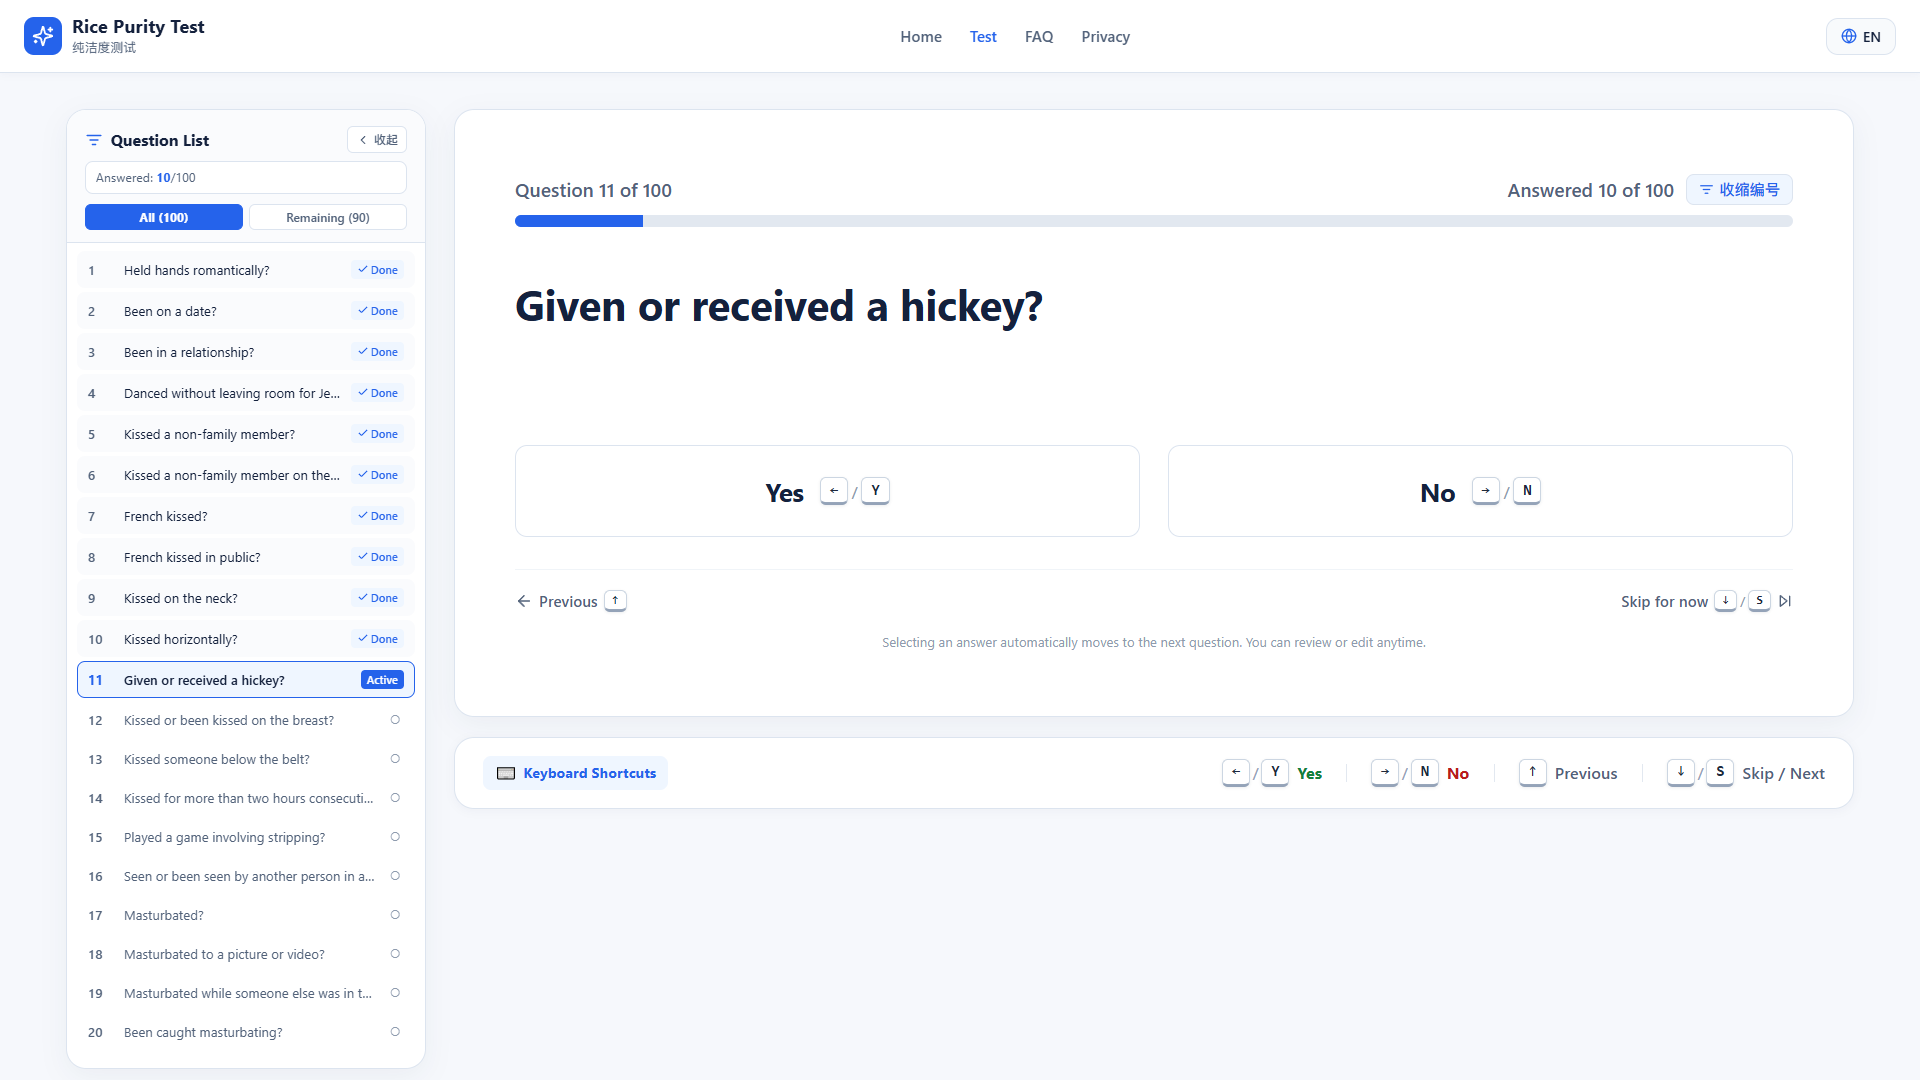
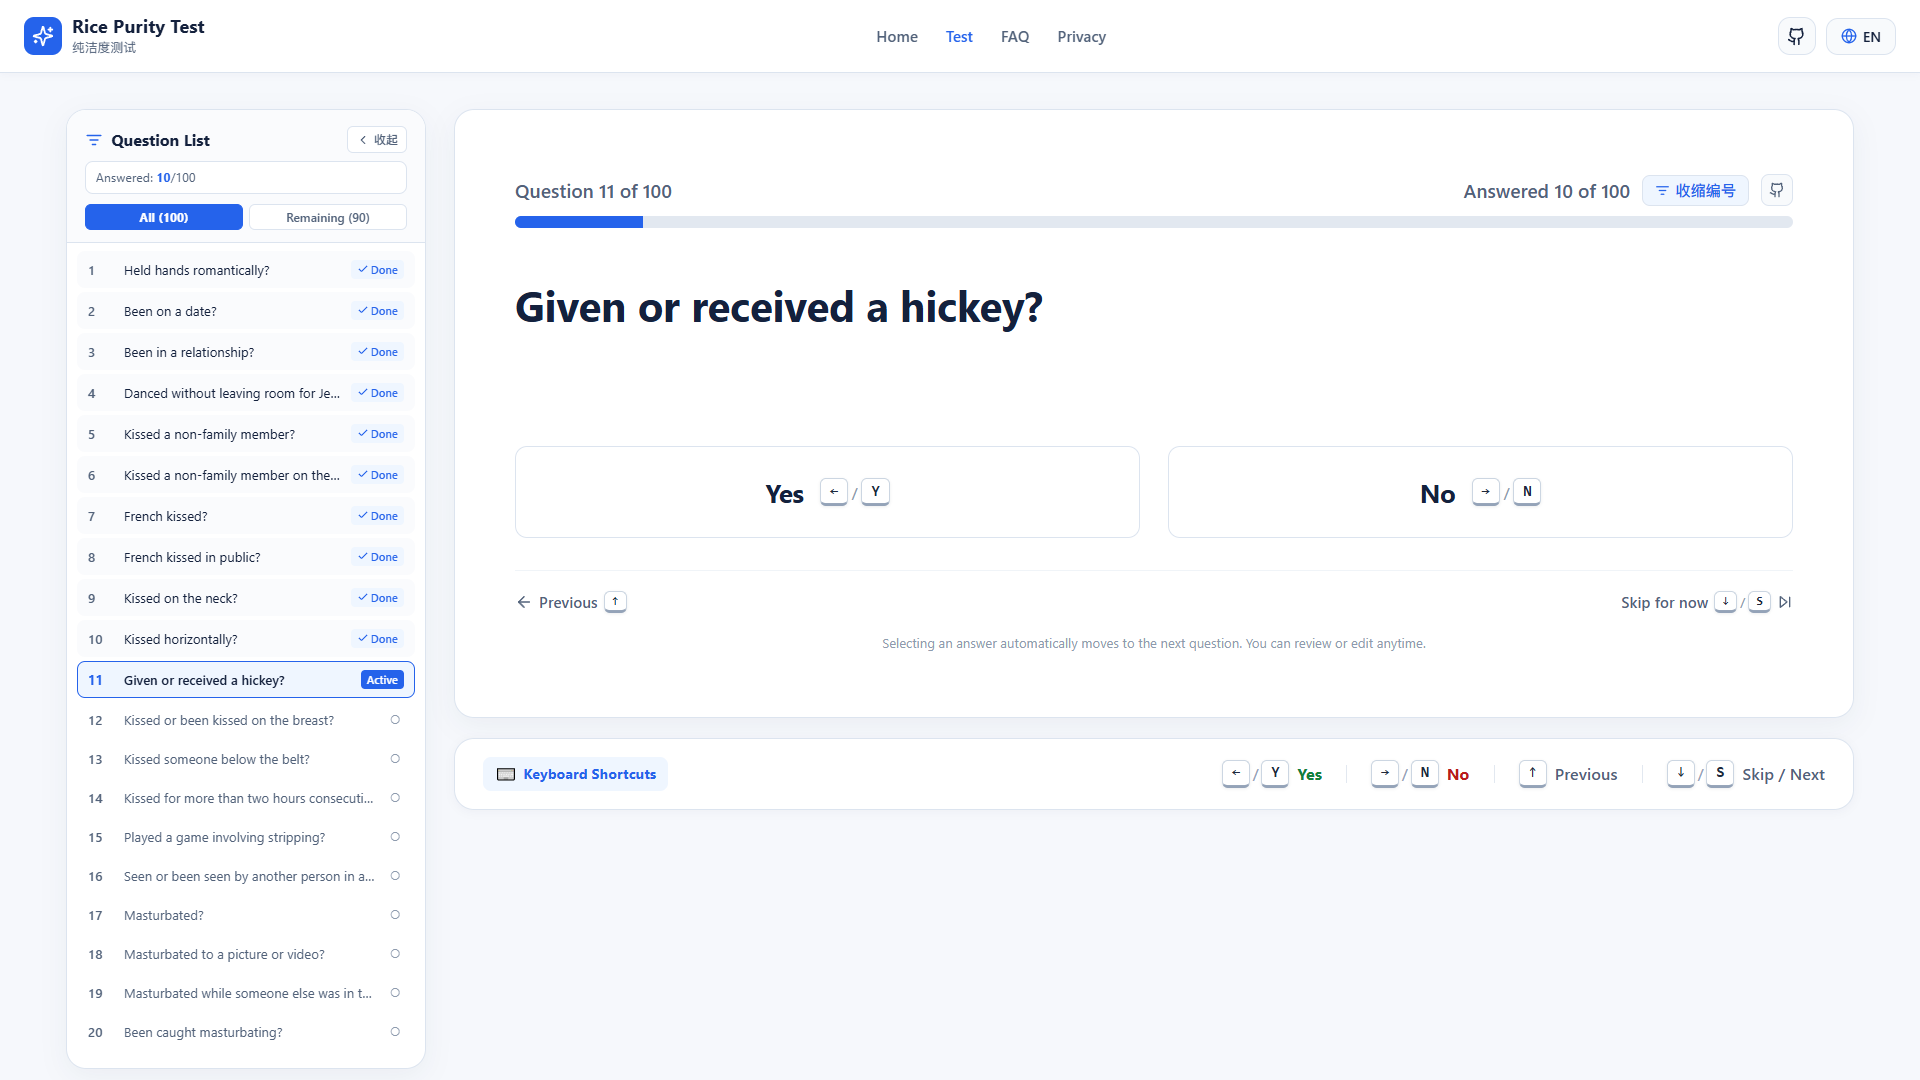
feat: add GitHub open source repository links to navigation header and test card

diff --git a/src/components/Navbar.tsx b/src/components/Navbar.tsx
@@ -1,6 +1,6 @@
 import React, { useState } from "react";
 import { Link, useLocation, useNavigate } from "react-router-dom";
-import { Sparkles, Globe, Menu, X } from "lucide-react";
+import { Sparkles, Globe, Menu, X, Github } from "lucide-react";
 import { useLanguage } from "../i18n/LanguageContext";
 import { DisplayLanguage } from "../features/quiz/types";
 
@@ -115,8 +115,39 @@ export const Navbar: React.FC = () => {
           </Link>
         </nav>
 
-        {/* Right Action: Language Selector */}
-        <div style={{ display: "flex", alignItems: "center", gap: "12px" }}>
+        {/* Right Action: GitHub Repository & Language Selector */}
+        <div style={{ display: "flex", alignItems: "center", gap: "10px" }}>
+          <a
+            href="https://github.com/JackieSung4ev/rice-purity"
+            target="_blank"
+            rel="noopener noreferrer"
+            title="GitHub Repository (Open Source) / 开源仓库"
+            aria-label="GitHub Repository"
+            style={{
+              display: "flex",
+              alignItems: "center",
+              justifyContent: "center",
+              width: "38px",
+              height: "38px",
+              borderRadius: "var(--radius-control)",
+              backgroundColor: "var(--color-surface-hover)",
+              border: "1px solid var(--color-border)",
+              color: "var(--color-text)",
+              transition: "all 0.15s ease",
+              textDecoration: "none",
+            }}
+            onMouseEnter={(e) => {
+              e.currentTarget.style.backgroundColor = "var(--color-primary-soft)";
+              e.currentTarget.style.color = "var(--color-primary)";
+            }}
+            onMouseLeave={(e) => {
+              e.currentTarget.style.backgroundColor = "var(--color-surface-hover)";
+              e.currentTarget.style.color = "var(--color-text)";
+            }}
+          >
+            <Github size={19} />
+          </a>
+
           <div style={{ position: "relative" }}>
             <button
               onClick={() => setLangDropdownOpen(!langDropdownOpen)}
@@ -222,6 +253,25 @@ export const Navbar: React.FC = () => {
           <Link to="/privacy" onClick={() => setMobileMenuOpen(false)} style={{ padding: "8px 0", fontSize: "1rem", fontWeight: 500, color: "var(--color-text)" }}>
             {language === "bilingual" ? "Privacy 隐私说明" : t.navPrivacy}
           </Link>
+          <a
+            href="https://github.com/JackieSung4ev/rice-purity"
+            target="_blank"
+            rel="noopener noreferrer"
+            onClick={() => setMobileMenuOpen(false)}
+            style={{
+              display: "flex",
+              alignItems: "center",
+              gap: "8px",
+              padding: "8px 0",
+              fontSize: "1rem",
+              fontWeight: 500,
+              color: "var(--color-primary)",
+              textDecoration: "none",
+            }}
+          >
+            <Github size={18} />
+            <span>GitHub (Open Source)</span>
+          </a>
         </div>
       )}
 

diff --git a/src/pages/TestPage.tsx b/src/pages/TestPage.tsx
@@ -1,6 +1,6 @@
 import React, { useState, useEffect } from "react";
 import { useNavigate } from "react-router-dom";
-import { ArrowLeft, ArrowRight, SkipForward, Check, AlertTriangle, ListFilter } from "lucide-react";
+import { ArrowLeft, ArrowRight, SkipForward, Check, AlertTriangle, ListFilter, Github } from "lucide-react";
 import { useQuiz } from "../features/quiz/quizContext";
 import { useLanguage } from "../i18n/LanguageContext";
 import { AnswerValue } from "../features/quiz/types";
@@ -536,6 +536,38 @@ export const TestPage: React.FC = () => {
                       </span>
                     </button>
                   )}
+
+                  {/* GitHub Repository Link */}
+                  <a
+                    href="https://github.com/JackieSung4ev/rice-purity"
+                    target="_blank"
+                    rel="noopener noreferrer"
+                    title="GitHub Repository (Open Source) / 开源仓库"
+                    aria-label="GitHub Repository"
+                    style={{
+                      display: "inline-flex",
+                      alignItems: "center",
+                      justifyContent: "center",
+                      width: "32px",
+                      height: "32px",
+                      borderRadius: "8px",
+                      backgroundColor: "var(--color-surface-hover)",
+                      color: "var(--color-text-secondary)",
+                      border: "1px solid var(--color-border)",
+                      transition: "all 0.15s ease",
+                      textDecoration: "none",
+                    }}
+                    onMouseEnter={(e) => {
+                      e.currentTarget.style.backgroundColor = "var(--color-primary-soft)";
+                      e.currentTarget.style.color = "var(--color-primary)";
+                    }}
+                    onMouseLeave={(e) => {
+                      e.currentTarget.style.backgroundColor = "var(--color-surface-hover)";
+                      e.currentTarget.style.color = "var(--color-text-secondary)";
+                    }}
+                  >
+                    <Github size={16} />
+                  </a>
                 </div>
               </div>
 

diff --git a/README.zh-CN.md b/README.zh-CN.md
@@ -87,25 +87,25 @@ npm run preview
 
 ## 验收清单验证结果
 
-| 类别     | 编号 | 检查项                          | 实际验证结果                          |
-| -------- | ---- | ------------------------------- | ------------------------------------- |
-| **计分** | D01  | 正式 100 题全部 No 得 100 分    | 通过（Vitest 单测）                   |
-| **计分** | D02  | 正式 100 题全部 Yes 得 0 分     | 通过（Vitest 单测，0分有效）          |
-| **计分** | D03  | 28 Yes + 72 No 得 72 分         | 通过（Vitest 单测）                   |
-| **计分** | D04  | Yes 改为 No 分数变动            | 通过（Vitest 单测，分数+1）           |
-| **计分** | D05  | 28 Yes + 71 No + 1 跳过         | 通过（score 为 null，未完成）         |
-| **计分** | D07  | 未访问项与跳过区分              | 通过（unvisited 与 skipped 独立统计） |
-| **计分** | D08  | 非法或损坏会话校验拦截          | 通过（validateSession 拦截）          |
-| **计分** | D10  | 演示题库不冒充正式分数          | 通过（status 为 demo，score 为 null） |
-| **交互** | I01  | 每次只显示一道题                | 通过（Puppeteer 桌面与手机验证）      |
-| **交互** | I02  | 连击与双击防误触                | 通过（200ms 同步题目 ID 切换保护锁）  |
-| **交互** | I07  | 回答明细默认折叠                | 通过（默认隐藏敏感答案，点击展开）    |
-| **交互** | I08  | 从结果页单题编辑修改            | 通过（支持修改、取消与保存返回）      |
-| **PDF**  | P01  | 中文、英文、双语 PDF 导出       | 通过（本地编译，A4 1 页摘要）         |
-| **PDF**  | P02  | PDF 中文及标点渲染              | 通过（实际加载 Noto Sans SC，无乱码） |
-| **PDF**  | P03  | 展开明细后仍不泄露答案          | 通过（PDF 结构完全排除逐题回答）      |
-| **隐私** | S01  | 无答案外传，无长期存储          | 通过（纯前端，无后端及第三方脚本）    |
-| **视觉** | V01  | 桌面 1920px / 手机 390px 自适应 | 通过（流体排版，无横向溢出，清晰醒目）|
+| 类别     | 编号 | 检查项                          | 实际验证结果                           |
+| -------- | ---- | ------------------------------- | -------------------------------------- |
+| **计分** | D01  | 正式 100 题全部 No 得 100 分    | 通过（Vitest 单测）                    |
+| **计分** | D02  | 正式 100 题全部 Yes 得 0 分     | 通过（Vitest 单测，0分有效）           |
+| **计分** | D03  | 28 Yes + 72 No 得 72 分         | 通过（Vitest 单测）                    |
+| **计分** | D04  | Yes 改为 No 分数变动            | 通过（Vitest 单测，分数+1）            |
+| **计分** | D05  | 28 Yes + 71 No + 1 跳过         | 通过（score 为 null，未完成）          |
+| **计分** | D07  | 未访问项与跳过区分              | 通过（unvisited 与 skipped 独立统计）  |
+| **计分** | D08  | 非法或损坏会话校验拦截          | 通过（validateSession 拦截）           |
+| **计分** | D10  | 演示题库不冒充正式分数          | 通过（status 为 demo，score 为 null）  |
+| **交互** | I01  | 每次只显示一道题                | 通过（Puppeteer 桌面与手机验证）       |
+| **交互** | I02  | 连击与双击防误触                | 通过（200ms 同步题目 ID 切换保护锁）   |
+| **交互** | I07  | 回答明细默认折叠                | 通过（默认隐藏敏感答案，点击展开）     |
+| **交互** | I08  | 从结果页单题编辑修改            | 通过（支持修改、取消与保存返回）       |
+| **PDF**  | P01  | 中文、英文、双语 PDF 导出       | 通过（本地编译，A4 1 页摘要）          |
+| **PDF**  | P02  | PDF 中文及标点渲染              | 通过（实际加载 Noto Sans SC，无乱码）  |
+| **PDF**  | P03  | 展开明细后仍不泄露答案          | 通过（PDF 结构完全排除逐题回答）       |
+| **隐私** | S01  | 无答案外传，无长期存储          | 通过（纯前端，无后端及第三方脚本）     |
+| **视觉** | V01  | 桌面 1920px / 手机 390px 自适应 | 通过（流体排版，无横向溢出，清晰醒目） |
 
 ---
 

diff --git a/README.md b/README.md
@@ -90,25 +90,25 @@ npm run preview
 
 ## Verification & Acceptance Checklist
 
-| Category | ID | Check Item | Verification Result |
-|---|---|---|---|
-| **Scoring** | D01 | 100 No answers = 100 score | Passed (Vitest test suite) |
-| **Scoring** | D02 | 100 Yes answers = 0 score | Passed (Vitest test suite, valid 0 score) |
-| **Scoring** | D03 | 28 Yes + 72 No = 72 score | Passed (Vitest test suite) |
-| **Scoring** | D04 | Changing Yes to No increments score by 1 | Passed (Vitest test suite) |
-| **Scoring** | D05 | 28 Yes + 71 No + 1 Skip = Incomplete | Passed (`score = null`) |
-| **Scoring** | D07 | Unvisited distinguished from Skipped | Passed (Distinct tracking) |
-| **Scoring** | D08 | Invalid / corrupted session intercepted | Passed (`validateSession` guard) |
-| **Scoring** | D10 | Draft demo bank does not produce official score | Passed (`reviewStatus: draft`) |
-| **Interaction** | I01 | Single-question view | Passed (Puppeteer desktop & mobile) |
-| **Interaction** | I02 | Rapid double-click protection | Passed (200ms transition lock) |
-| **Interaction** | I07 | Answer details collapsed by default | Passed (Protected by user disclosure) |
-| **Interaction** | I08 | Edit individual answer from results | Passed (Save & Return flow) |
-| **PDF** | P01 | Chinese, English, Bilingual export | Passed (1-page A4 summary) |
-| **PDF** | P02 | Chinese font and punctuation | Passed (Noto Sans SC, zero glyph errors) |
-| **PDF** | P03 | PDF excludes question-by-question breakdown | Passed (Privacy guaranteed) |
-| **Privacy** | S01 | No server uploads, zero external telemetry | Passed (Pure client-side static) |
-| **Visual** | V01 | Responsive scaling (1920px desktop to 390px mobile) | Passed (Fluid clamp typography) |
+| Category        | ID  | Check Item                                          | Verification Result                       |
+| --------------- | --- | --------------------------------------------------- | ----------------------------------------- |
+| **Scoring**     | D01 | 100 No answers = 100 score                          | Passed (Vitest test suite)                |
+| **Scoring**     | D02 | 100 Yes answers = 0 score                           | Passed (Vitest test suite, valid 0 score) |
+| **Scoring**     | D03 | 28 Yes + 72 No = 72 score                           | Passed (Vitest test suite)                |
+| **Scoring**     | D04 | Changing Yes to No increments score by 1            | Passed (Vitest test suite)                |
+| **Scoring**     | D05 | 28 Yes + 71 No + 1 Skip = Incomplete                | Passed (`score = null`)                   |
+| **Scoring**     | D07 | Unvisited distinguished from Skipped                | Passed (Distinct tracking)                |
+| **Scoring**     | D08 | Invalid / corrupted session intercepted             | Passed (`validateSession` guard)          |
+| **Scoring**     | D10 | Draft demo bank does not produce official score     | Passed (`reviewStatus: draft`)            |
+| **Interaction** | I01 | Single-question view                                | Passed (Puppeteer desktop & mobile)       |
+| **Interaction** | I02 | Rapid double-click protection                       | Passed (200ms transition lock)            |
+| **Interaction** | I07 | Answer details collapsed by default                 | Passed (Protected by user disclosure)     |
+| **Interaction** | I08 | Edit individual answer from results                 | Passed (Save & Return flow)               |
+| **PDF**         | P01 | Chinese, English, Bilingual export                  | Passed (1-page A4 summary)                |
+| **PDF**         | P02 | Chinese font and punctuation                        | Passed (Noto Sans SC, zero glyph errors)  |
+| **PDF**         | P03 | PDF excludes question-by-question breakdown         | Passed (Privacy guaranteed)               |
+| **Privacy**     | S01 | No server uploads, zero external telemetry          | Passed (Pure client-side static)          |
+| **Visual**      | V01 | Responsive scaling (1920px desktop to 390px mobile) | Passed (Fluid clamp typography)           |
 
 ---
 
